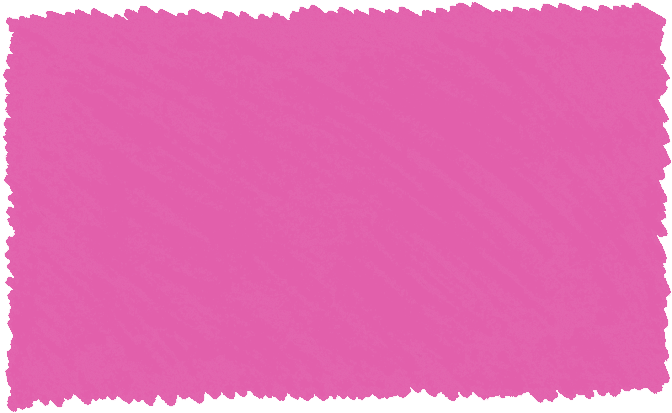
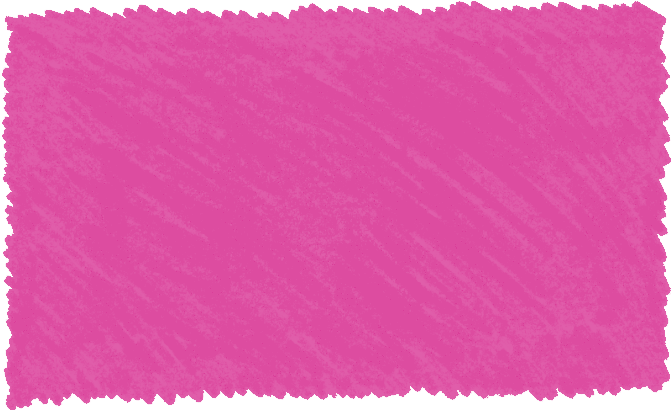
Card dei profili: rosa e arancione con la grana a matita, come il blu
Lo script prepara-card non appiattisce più il tratto alla soglia di 3:1: ogni
punto prende il colore di sistema tra un contrasto minimo e uno massimo,
secondo quanto è leggero il tratto. Il blu resta com'era.

diff --git a/scripts/prepara-card.php b/scripts/prepara-card.php
@@ -1,21 +1,39 @@
 <?php
-// Prepara la macchia a matita di una card dei profili perché il testo bianco abbia almeno 3:1.
-// Uso: php scripts/prepara-card.php macchia.png assets/images/card-<colore>.webp <colore di sistema, es. e06a1a> [contrasto]
+// Prepara la macchia a matita di una card dei profili: il testo bianco ha almeno 3:1 e la grana del tratto resta.
+// Uso: php scripts/prepara-card.php macchia.png assets/images/card-<colore>.webp <colore di sistema, es. e06a1a> [chiaro] [scuro]
 // La macchia è un PNG trasparente, orizzontale, al doppio della misura della card (672px di larghezza).
 // Vedi docs/design-tokens.md, "Card dei profili".
 //
-// Il tratto è semitrasparente: sul bianco della pagina il colore risulta più chiaro di quello di sistema.
-// Ogni punto della macchia in cui il bianco non arriva a 3:1 si avvicina al colore di sistema, solo quanto
-// basta; gli altri restano com'erano. I buchi interni (quasi trasparenti ma chiusi dalla macchia) contano
-// come macchia; il bordo esterno sfumato resta com'è.
-// Il contrasto minimo è 3.1 (3:1 con un piccolo margine). Un valore più alto rende la macchia più liscia:
-// serve a un colore il cui tratto è già scuro, perché somigli alle altre card (il blu usa 4.2).
+// Il tratto è semitrasparente: sul bianco della pagina i punti più leggeri della matita sono molto più chiari
+// del colore di sistema e il bianco sopra non si leggerebbe. Ogni punto della macchia prende il colore di
+// sistema, più chiaro o più scuro secondo quanto è leggero il tratto in quel punto: il punto più leggero ha
+// il contrasto "chiaro" (3.1 di default: 3:1 con un piccolo margine), il più pieno il contrasto "scuro".
+// Così la grana della matita si vede su tutte le card allo stesso modo, invece di appiattirsi dove il colore
+// andava scurito. Senza "scuro", la grana sta intorno al colore di sistema: ±8% di luminanza, come il blu.
+// I buchi interni (quasi trasparenti ma chiusi dalla macchia) contano come macchia; il bordo esterno sfumato
+// resta com'è.
 
 [, $sorgente, $destinazione, $esadecimale] = $argv;
-$obiettivo = (float)($argv[4] ?? 3.1);
 $sistema = sscanf($esadecimale, '%02x%02x%02x');
 $lineare = fn ($v) => ($v /= 255) <= 0.03928 ? $v / 12.92 : (($v + 0.055) / 1.055) ** 2.4;
-$contrasto = fn ($c) => 1.05 / (0.2126 * $lineare($c[0]) + 0.7152 * $lineare($c[1]) + 0.0722 * $lineare($c[2]) + 0.05);
+$luminanza = fn ($c) => 0.2126 * $lineare($c[0]) + 0.7152 * $lineare($c[1]) + 0.0722 * $lineare($c[2]);
+$contrasto = fn ($c) => 1.05 / ($luminanza($c) + 0.05);
+$mescola = fn ($a, $b, $t) => array_map(fn ($x, $y) => $x + ($y - $x) * $t, $a, $b);
+
+// Il colore di sistema schiarito verso il bianco o scurito verso il nero fino al contrasto voluto (per bisezione)
+$tinta = function (float $voluto) use ($sistema, $contrasto, $mescola): array {
+	[$da, $a] = $voluto <= $contrasto($sistema) ? [[255, 255, 255], $sistema] : [$sistema, [0, 0, 0]];
+	[$min, $max] = [0.0, 1.0];
+	for ($i = 0; $i < 30; $i++) {
+		$t = ($min + $max) / 2;
+		$contrasto($mescola($da, $a, $t)) < $voluto ? $min = $t : $max = $t;
+	}
+	return $mescola($da, $a, $max);
+};
+
+$luce = 1.05 / $contrasto($sistema) - 0.05;
+$chiaro = (float)($argv[4] ?? max(3.1, 1.05 / ($luce * 1.08 + 0.05)));
+$scuro = (float)($argv[5] ?? max($chiaro, 1.05 / ($luce / 1.08 + 0.05)));
 
 $img = imagecreatefrompng($sorgente);
 $w = imagesx($img);
@@ -36,25 +54,48 @@ while ($coda) {
 	}
 }
 
+// Quanto è pieno il tratto in ogni punto: la luminanza che il punto ha sul bianco della pagina
+$pieno = [];
+for ($y = 0; $y < $h; $y++) {
+	for ($x = 0; $x < $w; $x++) {
+		if (isset($fuori[$y * $w + $x])) continue;
+		$p = imagecolorat($img, $x, $y);
+		$a = $alfa($x, $y);
+		$pieno[$y * $w + $x] = -$luminanza(array_map(fn ($c) => $c * $a + 255 * (1 - $a), [($p >> 16) & 255, ($p >> 8) & 255, $p & 255]));
+	}
+}
+// Ogni punto prende il tono secondo la sua posizione tra tutti (il 30% più leggero, il 70%…), non secondo
+// la distanza dagli estremi: quasi tutto il tratto è pieno, e così la grana si distribuisce su tutta la card
+$ordinati = array_values($pieno);
+sort($ordinati);
+$quanti = count($ordinati);
+$posizione = function (float $valore) use ($ordinati, $quanti): float {
+	[$min, $max] = [0, $quanti];
+	while ($min < $max) {
+		$meta = intdiv($min + $max, 2);
+		$ordinati[$meta] < $valore ? $min = $meta + 1 : $max = $meta;
+	}
+	return $min / $quanti;
+};
+
+// Una tavolozza di 256 toni tra chiaro e scuro, poi ogni punto prende il suo
+$toni = array_map(fn ($i) => array_map('round', $tinta($chiaro + ($scuro - $chiaro) * $i / 255)), range(0, 255));
+
 $uscita = imagecreatetruecolor($w, $h);
 imagealphablending($uscita, false);
 imagesavealpha($uscita, true);
 for ($y = 0; $y < $h; $y++) {
 	for ($x = 0; $x < $w; $x++) {
-		$p = imagecolorat($img, $x, $y);
-		if (isset($fuori[$y * $w + $x])) {
-			imagesetpixel($uscita, $x, $y, $p);
+		if (!isset($pieno[$y * $w + $x])) {
+			imagesetpixel($uscita, $x, $y, imagecolorat($img, $x, $y));
 			continue;
 		}
-		// Il colore che il punto ha sul bianco della pagina, poi verso il colore di sistema finché serve
-		$a = $alfa($x, $y);
-		$visto = array_map(fn ($c) => $c * $a + 255 * (1 - $a), [($p >> 16) & 255, ($p >> 8) & 255, $p & 255]);
-		for ($t = 0; $contrasto($colore = array_map(fn ($c, $s) => $c + ($s - $c) * $t, $visto, $sistema)) < $obiettivo && $t < 1; $t += 0.05);
+		$t = $posizione($pieno[$y * $w + $x]);
 		// Opaco: l'aspetto non cambia (la card sta sempre sul bianco) e la compressione non sposta i colori
-		imagesetpixel($uscita, $x, $y, imagecolorallocatealpha($uscita, ...[...array_map('round', $colore), 0]));
+		imagesetpixel($uscita, $x, $y, imagecolorallocatealpha($uscita, ...[...$toni[(int)round($t * 255)], 0]));
 	}
 }
 
 // Senza perdite: la compressione con perdita riporterebbe sotto 3:1 i punti vicini alla soglia
 imagewebp($uscita, $destinazione, IMG_WEBP_LOSSLESS);
-echo $destinazione . ': ' . round(filesize($destinazione) / 1024) . " kB\n";
+printf("%s: %d kB, contrasto da %.2f a %.2f\n", $destinazione, round(filesize($destinazione) / 1024), $chiaro, $scuro);

diff --git a/docs/design-tokens.md b/docs/design-tokens.md
@@ -149,7 +149,7 @@ I valori vengono dai wireframe definitivi (Figma, pagina "wireframe - v5 - final
 ## Card dei profili (A chi ci rivolgiamo)
 
 - **Forma:** la macchia a matita di Laura nel colore del profilo (`assets/images/card-<colore>.webp`), stirata sulla card: se il testo cresce, la card si allunga e il testo non esce mai dalla forma. Proporzioni 302 × 185, larga `--card-larghezza` (302px su mobile, 335px su desktop).
-- **Contrasto:** il tratto a matita è semitrasparente, quindi sul bianco della pagina i colori risultano più chiari di quelli di sistema (arancione 2.9:1 in media). Le macchie sono state scurite verso il colore di sistema solo nei punti in cui il bianco non arrivava a 3:1, e solo quanto bastava: il bianco ha ovunque almeno 3:1, che basta perché tutto il testo della card è grande (regola 3). Il tratto blu di Laura era già scuro e restava molto più a pennellate delle altre due: per uniformarlo, il blu è scurito fino a 4.2:1 invece di 3.1:1. Una nuova macchia si prepara allo stesso modo con `php scripts/prepara-card.php macchia.png assets/images/card-<colore>.webp <esadecimale del colore> [contrasto]` (PNG trasparente e orizzontale, largo 672px).
+- **Contrasto e grana:** il tratto a matita è semitrasparente, quindi sul bianco della pagina i colori risultano più chiari di quelli di sistema (arancione 2.9:1 in media). Il bianco deve avere ovunque almeno 3:1, che basta perché tutto il testo della card è grande (regola 3). La prima versione scuriva solo i punti sotto 3:1, fino alla soglia: rosa e arancione, più chiari, si appiattivano e perdevano la grana, mentre il blu, già scuro, restava a pennellate (scurito fino a 4.2:1). Dal 14 ott rosa e arancione si preparano in un altro modo: ogni punto prende il colore di sistema, più chiaro o più scuro secondo quanto è leggero il tratto in quel punto, tra un contrasto minimo e uno massimo (rosa da 3.3 a 4.1, arancione da 3.1 a 3.6), così la grana si vede come nel blu, che resta quello di prima. Gli originali sono le foto verticali di Laura (IMG_4981 rosa, IMG_4978 arancione, IMG_4979 blu, in "Immagini per il sito"), ruotate e ritagliate a 672px. Una nuova macchia si prepara con `php scripts/prepara-card.php macchia.png assets/images/card-<colore>.webp <esadecimale del colore> [chiaro] [scuro]` (PNG trasparente e orizzontale, largo 672px).
 - **Testo:** nome del profilo in `--text-titolo-2` (come nel frame mobile; nel frame desktop il gruppo era ingrandito a 28.8px), "Scopri di più" con l'aspetto di un link, in basso a destra. Tutta la card è un solo link; al passaggio del mouse la sottolineatura si ispessisce.
 - **Mobile:** una sotto l'altra, sfalsate: la seconda rientra di `--spazio-7`, la terza di `--spazio-4`. Sotto, solo su mobile, l'illustrazione dei musicisti (`--illustrazione-destinatari`).
 - **Desktop:** in fila a tutta larghezza, a `--spazio-8` l'una dall'altra, ruotate (−4°, 2°, 5°) e scese di `--spazio-7`, 0 e `--spazio-6`, come se fossero appoggiate a mano. Se non ci stanno in tre (da 1024 a circa 1280px), vanno a capo due e una, senza stringersi. Sotto la fila c'è `--spazio-6`, che tiene dentro la sezione gli angoli delle card ruotate. Le varianti si ripetono ogni tre card.
